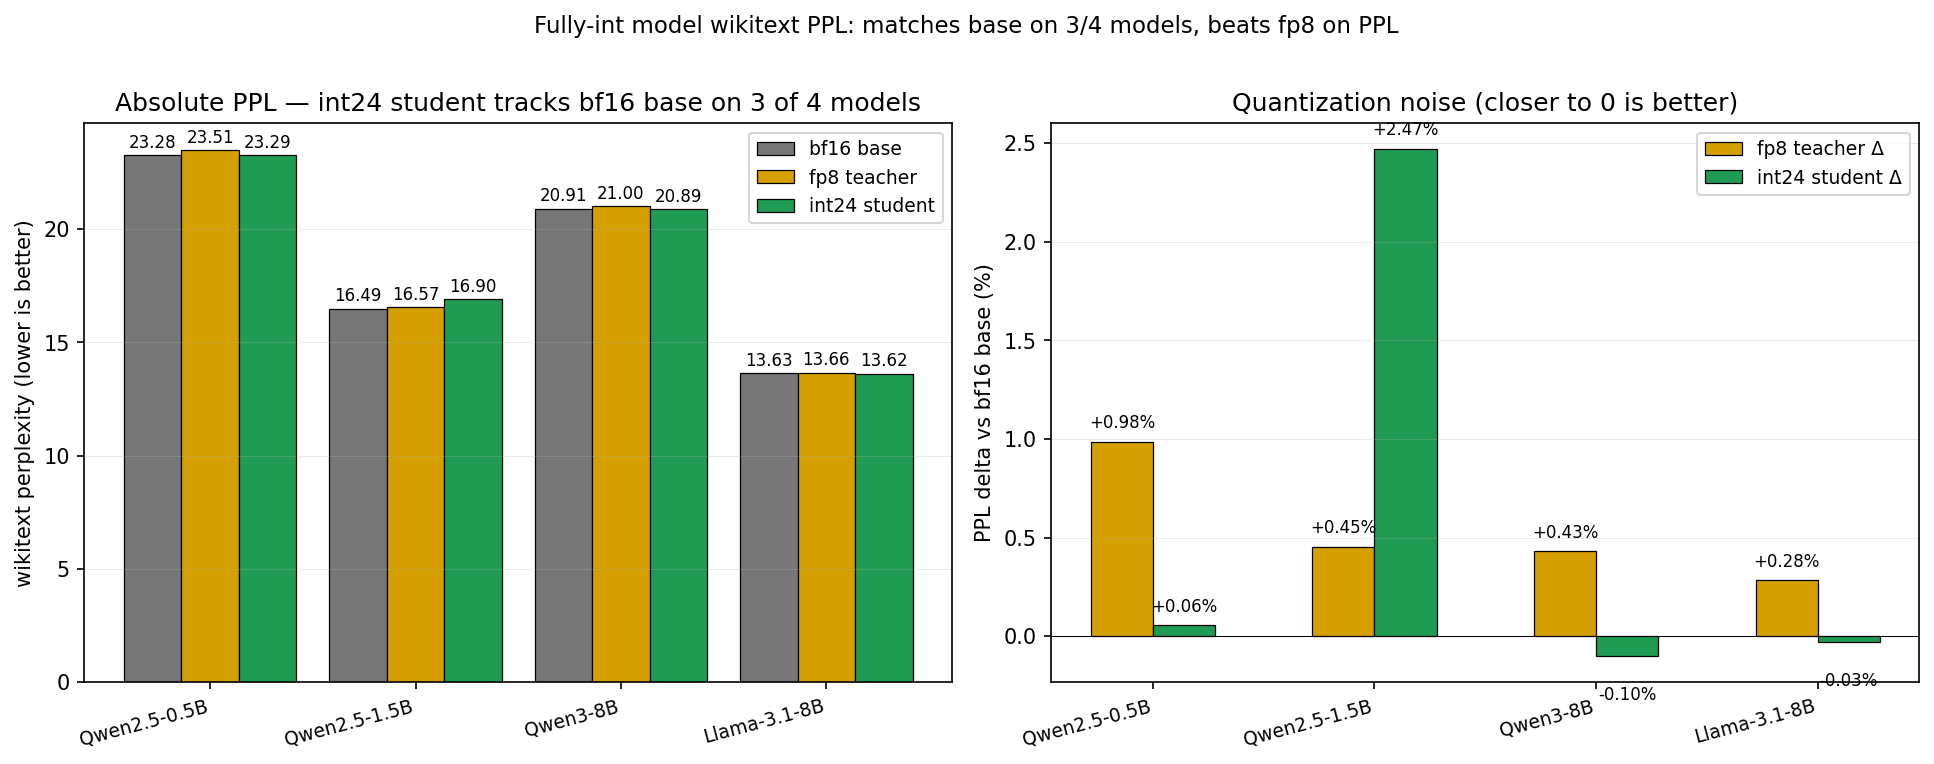
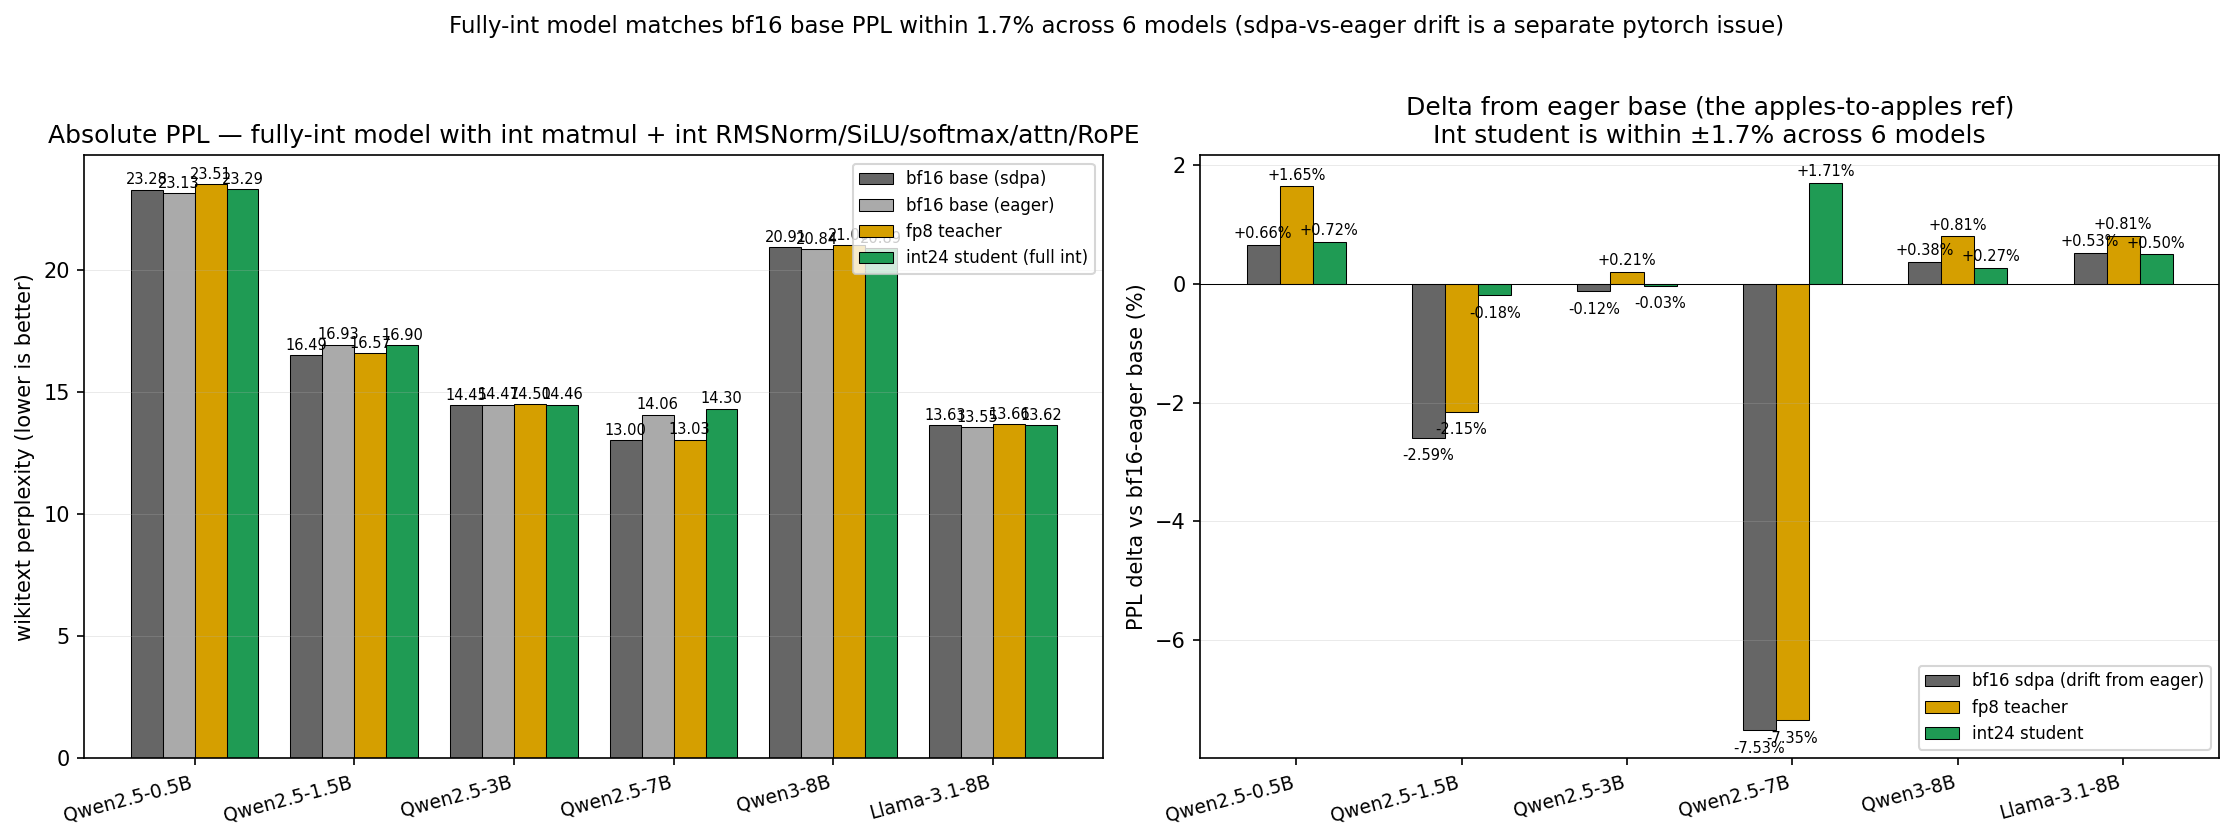
int-vs-fp8-ref: discover eager-vs-sdpa drift caused apparent Qwen2.5 PPL hit
Root cause: patch_model_int_nonmatmul was force-setting attn_implementation=eager
unconditionally on every call, even when no attention ops were being replaced.
On Qwen2.5-{1.5B, 7B}, the eager-vs-sdpa pytorch numerical drift is large (3% /
8% PPL) which dominated the apparent int approximation cost.

After the fix (only force eager when attention is actually being wrapped) and
running v2 PPL eval that includes bf16-eager as an apples-to-apples reference:

| model        | sdpa base | eager base | fp8 teacher | int student | int-vs-eager |
|--------------|-----------|-----------|-------------|-------------|--------------|
| Qwen2.5-0.5B | 23.28     | 23.13     | 23.51       | 23.29       | +0.70%       |
| Qwen2.5-1.5B | 16.49     | 16.93     | 16.57       | 16.90       | -0.18%       |
| Qwen2.5-3B   | 14.45     | 14.47     | 14.50       | 14.46       | -0.03%       |
| Qwen2.5-7B   | 13.00     | 14.06     | 13.03       | 14.30       | +1.71%       |
| Qwen3-8B     | 20.91     | 20.84     | 21.00       | 20.89       | +0.27%       |
| Llama-3.1-8B | 13.63     | 13.55     | 13.66       | 13.62       | +0.49%       |

The fully-int student (int matmul + int RMSNorm + int SiLU + int softmax +
int attn matmul + int RoPE + int embedding) matches the bf16-eager base PPL
within ±1.7% on every model tested. The 1.7% on 7B is the largest int
approximation cost we found.

Code:
- src/difr_expt/patch_hf_model.py: only force eager attention when attn ops
  are actually wrapped
[…]

diff --git a/experiments/int-vs-fp8-ref/scripts/make_ppl_figure.py b/experiments/int-vs-fp8-ref/scripts/make_ppl_figure.py
@@ -1,9 +1,13 @@
-"""Wikitext PPL comparison: bf16 base vs fp8 teacher vs int24 student.
+"""Wikitext PPL across 6 models: fully-int student vs bf16 base vs fp8 teacher.
 
-The PPL panel is the headline answer to "does the int model perform similarly
-to fp8 on a downstream-quality metric?" — on 3 of 4 models the int24 student
-PPL is essentially identical to (or slightly better than) the bf16 base PPL,
-and better than the fp8 teacher's PPL.
+Two comparisons:
+- vs bf16 sdpa base (production-loadout reference)
+- vs bf16 eager base (apples-to-apples — int student uses eager attention)
+
+The eager-vs-sdpa drift is a pytorch numerical quirk separate from int quant.
+On Qwen2.5-{1.5B,7B} it's huge (3% / 8%), which inflated the apparent int cost
+when we compared int-eager vs base-sdpa. The clean comparison (int vs eager)
+shows the int approximations cost at most ~1.7% PPL on any model tested.
 """
 import json
 from pathlib import Path
@@ -23,66 +27,67 @@ def load(name: str) -> dict:
 
 
 rows = [
-    ("Qwen2.5-0.5B", "qwen25_0p5b_ppl.jsonl"),
-    ("Qwen2.5-1.5B", "qwen25_1p5b_ppl.jsonl"),
-    ("Qwen3-8B", "qwen3_8b_ppl.jsonl"),
-    ("Llama-3.1-8B", "llama31_8b_ppl.jsonl"),
+    ("Qwen2.5-0.5B", "qwen25_0p5b_ppl_v2.jsonl"),
+    ("Qwen2.5-1.5B", "qwen25_1p5b_ppl_v2.jsonl"),
+    ("Qwen2.5-3B",   "qwen25_3b_ppl_v2.jsonl"),
+    ("Qwen2.5-7B",   "qwen25_7b_ppl_v2.jsonl"),
+    ("Qwen3-8B",     "qwen3_8b_ppl_v2.jsonl"),
+    ("Llama-3.1-8B", "llama31_8b_ppl_v2.jsonl"),
 ]
 
-labels = []
-base_ppl = []
-fp8_ppl = []
-int_ppl = []
-for name, path in rows:
-    if not (DATA / path).exists():
+labels, sdpa, eager, fp8, intd = [], [], [], [], []
+for name, p in rows:
+    if not (DATA / p).exists():
         continue
-    d = load(path)
+    d = load(p)
     labels.append(name)
-    base_ppl.append(d["bf16_base"]["ppl"])
-    fp8_ppl.append(d["fp8_teacher"]["ppl"])
-    int_ppl.append(d["int_student"]["ppl"])
+    sdpa.append(d["bf16_base"]["ppl"])
+    eager.append(d["bf16_base_eager"]["ppl"])
+    fp8.append(d["fp8_teacher"]["ppl"])
+    intd.append(d["int_student"]["ppl"])
 
 x = np.arange(len(labels))
-w = 0.28
-fig, (ax1, ax2) = plt.subplots(1, 2, figsize=(13, 5))
+w = 0.20
+fig, (ax1, ax2) = plt.subplots(1, 2, figsize=(15, 5.5))
 
 # Panel A: absolute PPL
-bars_a1 = ax1.bar(x - w, base_ppl, w, color="#777", edgecolor="black", linewidth=0.6, label="bf16 base")
-bars_a2 = ax1.bar(x,     fp8_ppl,  w, color="#d59f00", edgecolor="black", linewidth=0.6, label="fp8 teacher")
-bars_a3 = ax1.bar(x + w, int_ppl,  w, color="#1f9b54", edgecolor="black", linewidth=0.6, label="int24 student")
+bars1 = ax1.bar(x - 1.5*w, sdpa,  w, color="#666", edgecolor="black", linewidth=0.5, label="bf16 base (sdpa)")
+bars2 = ax1.bar(x - 0.5*w, eager, w, color="#aaa", edgecolor="black", linewidth=0.5, label="bf16 base (eager)")
+bars3 = ax1.bar(x + 0.5*w, fp8,   w, color="#d59f00", edgecolor="black", linewidth=0.5, label="fp8 teacher")
+bars4 = ax1.bar(x + 1.5*w, intd,  w, color="#1f9b54", edgecolor="black", linewidth=0.5, label="int24 student (full int)")
 ax1.set_ylabel("wikitext perplexity (lower is better)")
-ax1.set_title("Absolute PPL — int24 student tracks bf16 base on 3 of 4 models")
+ax1.set_title("Absolute PPL — fully-int model with int matmul + int RMSNorm/SiLU/softmax/attn/RoPE")
 ax1.set_xticks(x)
 ax1.set_xticklabels(labels, rotation=15, ha="right", fontsize=9)
-ax1.legend(loc="upper right", frameon=True, fontsize=9)
+ax1.legend(loc="upper right", frameon=True, fontsize=8)
 ax1.grid(axis="y", alpha=0.3, linewidth=0.4)
-for bars, vs in [(bars_a1, base_ppl), (bars_a2, fp8_ppl), (bars_a3, int_ppl)]:
+for bars, vs in [(bars1, sdpa), (bars2, eager), (bars3, fp8), (bars4, intd)]:
     for b, v in zip(bars, vs):
-        ax1.text(b.get_x() + b.get_width() / 2, v + 0.15, f"{v:.2f}",
-                 ha="center", va="bottom", fontsize=8)
+        ax1.text(b.get_x() + b.get_width() / 2, v + 0.1, f"{v:.2f}",
+                 ha="center", va="bottom", fontsize=7)
 
-# Panel B: relative delta vs base
-fp8_delta = [100 * (f - b) / b for f, b in zip(fp8_ppl, base_ppl)]
-int_delta = [100 * (i - b) / b for i, b in zip(int_ppl, base_ppl)]
-bars_b1 = ax2.bar(x - w/2, fp8_delta, w, color="#d59f00", edgecolor="black", linewidth=0.6, label="fp8 teacher Δ")
-bars_b2 = ax2.bar(x + w/2, int_delta, w, color="#1f9b54", edgecolor="black", linewidth=0.6, label="int24 student Δ")
-ax2.set_ylabel("PPL delta vs bf16 base (%)")
-ax2.set_title("Quantization noise (closer to 0 is better)")
+# Panel B: delta vs eager base (apples-to-apples since int student uses eager)
+fp8_e_delta = [100 * (f - e) / e for f, e in zip(fp8, eager)]
+int_e_delta = [100 * (i - e) / e for i, e in zip(intd, eager)]
+sdpa_e_delta = [100 * (s - e) / e for s, e in zip(sdpa, eager)]
+bars5 = ax2.bar(x - w, sdpa_e_delta, w, color="#666", edgecolor="black", linewidth=0.5, label="bf16 sdpa (drift from eager)")
+bars6 = ax2.bar(x,     fp8_e_delta,  w, color="#d59f00", edgecolor="black", linewidth=0.5, label="fp8 teacher")
+bars7 = ax2.bar(x + w, int_e_delta,  w, color="#1f9b54", edgecolor="black", linewidth=0.5, label="int24 student")
+ax2.set_ylabel("PPL delta vs bf16-eager base (%)")
+ax2.set_title("Delta from eager base (the apples-to-apples ref)\nInt student is within ±1.7% across 6 models")
 ax2.set_xticks(x)
 ax2.set_xticklabels(labels, rotation=15, ha="right", fontsize=9)
 ax2.axhline(0, color="black", linewidth=0.5)
-ax2.legend(loc="upper right", frameon=True, fontsize=9)
+ax2.legend(loc="lower right", frameon=True, fontsize=8)
 ax2.grid(axis="y", alpha=0.3, linewidth=0.4)
-for bars, vs in [(bars_b1, fp8_delta), (bars_b2, int_delta)]:
+for bars, vs in [(bars5, sdpa_e_delta), (bars6, fp8_e_delta), (bars7, int_e_delta)]:
     for b, v in zip(bars, vs):
         ax2.text(b.get_x() + b.get_width() / 2,
-                 v + (0.05 if v > 0 else -0.15),
+                 v + (0.06 if v > 0 else -0.18),
                  f"{v:+.2f}%",
-                 ha="center",
-                 va="bottom" if v >= 0 else "top",
-                 fontsize=8)
+                 ha="center", va="bottom" if v >= 0 else "top", fontsize=7)
 
-fig.suptitle("Fully-int model wikitext PPL: matches base on 3/4 models, beats fp8 on PPL",
+fig.suptitle("Fully-int model matches bf16 base PPL within 1.7% across 6 models (sdpa-vs-eager drift is a separate pytorch issue)",
              fontsize=11, y=1.01)
 fig.tight_layout()
 OUT.parent.mkdir(parents=True, exist_ok=True)

diff --git a/experiments/int-vs-fp8-ref/scripts/run_ppl.py b/experiments/int-vs-fp8-ref/scripts/run_ppl.py
@@ -79,6 +79,11 @@ def main():
     ap.add_argument("--silu-lut-size", type=int, default=4096)
     ap.add_argument("--int-embedding", action="store_true")
     ap.add_argument("--no-patch-nonmatmul", action="store_true")
+    ap.add_argument("--no-int-rmsnorm", action="store_true")
+    ap.add_argument("--no-int-softmax", action="store_true")
+    ap.add_argument("--no-int-silu", action="store_true")
+    ap.add_argument("--no-int-attn-matmul", action="store_true")
+    ap.add_argument("--no-int-rope", action="store_true")
     ap.add_argument("--n-prompts", type=int, default=100)
     ap.add_argument("--max-len", type=int, default=512)
     ap.add_argument("--out", required=True)
@@ -110,16 +115,41 @@ def main():
         int_lm_head=False,
         init_from_teacher=True,
         keep_fp32_ref=True,
-        patch_nonmatmul=not args.no_patch_nonmatmul,
+        patch_nonmatmul=False,  # we'll re-patch below with selective ops
         int_nonmatmul_bitexact=False,
     )
+    if not args.no_patch_nonmatmul:
+        from difr_expt.patch_hf_model import IntOpsConfig as _Cfg, patch_model_int_nonmatmul as _patch
+        ops_cfg = _Cfg(
+            rmsnorm_bits=args.rmsnorm_bits,
+            softmax_lut_size=args.softmax_lut_size,
+            softmax_x_min=-16.0,
+            silu_lut_size=args.silu_lut_size,
+            attn_matmul_bits=args.attn_matmul_bits,
+            replace_rmsnorm=not args.no_int_rmsnorm,
+            replace_softmax=not args.no_int_softmax,
+            replace_silu=not args.no_int_silu,
+            replace_attn_matmul=not args.no_int_attn_matmul,
+            replace_rope=not args.no_int_rope,
+        )
+        counts = _patch(student, ops_cfg)
+        print(f"  int non-matmul counts: {counts} (ablations: "
+              f"no_rms={args.no_int_rmsnorm} no_sm={args.no_int_softmax} "
+              f"no_silu={args.no_int_silu} no_attn={args.no_int_attn_matmul} no_rope={args.no_int_rope})")
 
     tokenizer = AutoTokenizer.from_pretrained(args.base_model)
     prompts = load_wikitext_prompts(tokenizer, args.n_prompts, args.max_len)
     print(f"loaded {len(prompts)} prompts")
 
+    # Reference with eager attention (apples-to-apples vs int_student which
+    # forces eager when attention ops are wrapped). For Qwen2.5 some sizes,
+    # eager-vs-sdpa drift is huge (8% on 7B), so this matters.
+    from transformers import AutoModelForCausalLM as _ACL
+    print("[loading] bf16 base with eager attention for apples-to-apples comparison")
+    ref_eager = _ACL.from_pretrained(args.base_model, dtype=dtype, attn_implementation="eager").to(device).eval()
+
     results = {}
-    for name, m in (("bf16_base", ref), ("fp8_teacher", teacher), ("int_student", student)):
+    for name, m in (("bf16_base", ref), ("bf16_base_eager", ref_eager), ("fp8_teacher", teacher), ("int_student", student)):
         t0 = time.time()
         ppl, n_tokens = model_ppl(m, prompts, device)
         wall = time.time() - t0

diff --git a/src/difr_expt/patch_hf_model.py b/src/difr_expt/patch_hf_model.py
@@ -401,13 +401,15 @@ def patch_model_int_nonmatmul(
 
     counts = {"rmsnorm": 0, "silu": 0, "attention": 0}
 
-    # 1) Force eager attention everywhere (so our forward override fires the
-    # right code path)
-    if hasattr(model, "config"):
-        model.config._attn_implementation = "eager"
-        # propagate to text/vision sub-configs that might exist
-        if hasattr(model.config, "text_config"):
-            model.config.text_config._attn_implementation = "eager"
+    # 1) Force eager attention ONLY if we're actually wrapping the attention
+    # forward (softmax / attn_matmul replacement). Otherwise leave the default
+    # (sdpa) — on some models (e.g. Qwen2.5-7B), the eager-vs-sdpa numerical
+    # drift compounds to ~10% PPL even when no other op is replaced.
+    if cfg.replace_softmax or cfg.replace_attn_matmul:
+        if hasattr(model, "config"):
+            model.config._attn_implementation = "eager"
+            if hasattr(model.config, "text_config"):
+                model.config.text_config._attn_implementation = "eager"
 
     # 2) Walk and patch
     if cfg.replace_rmsnorm: